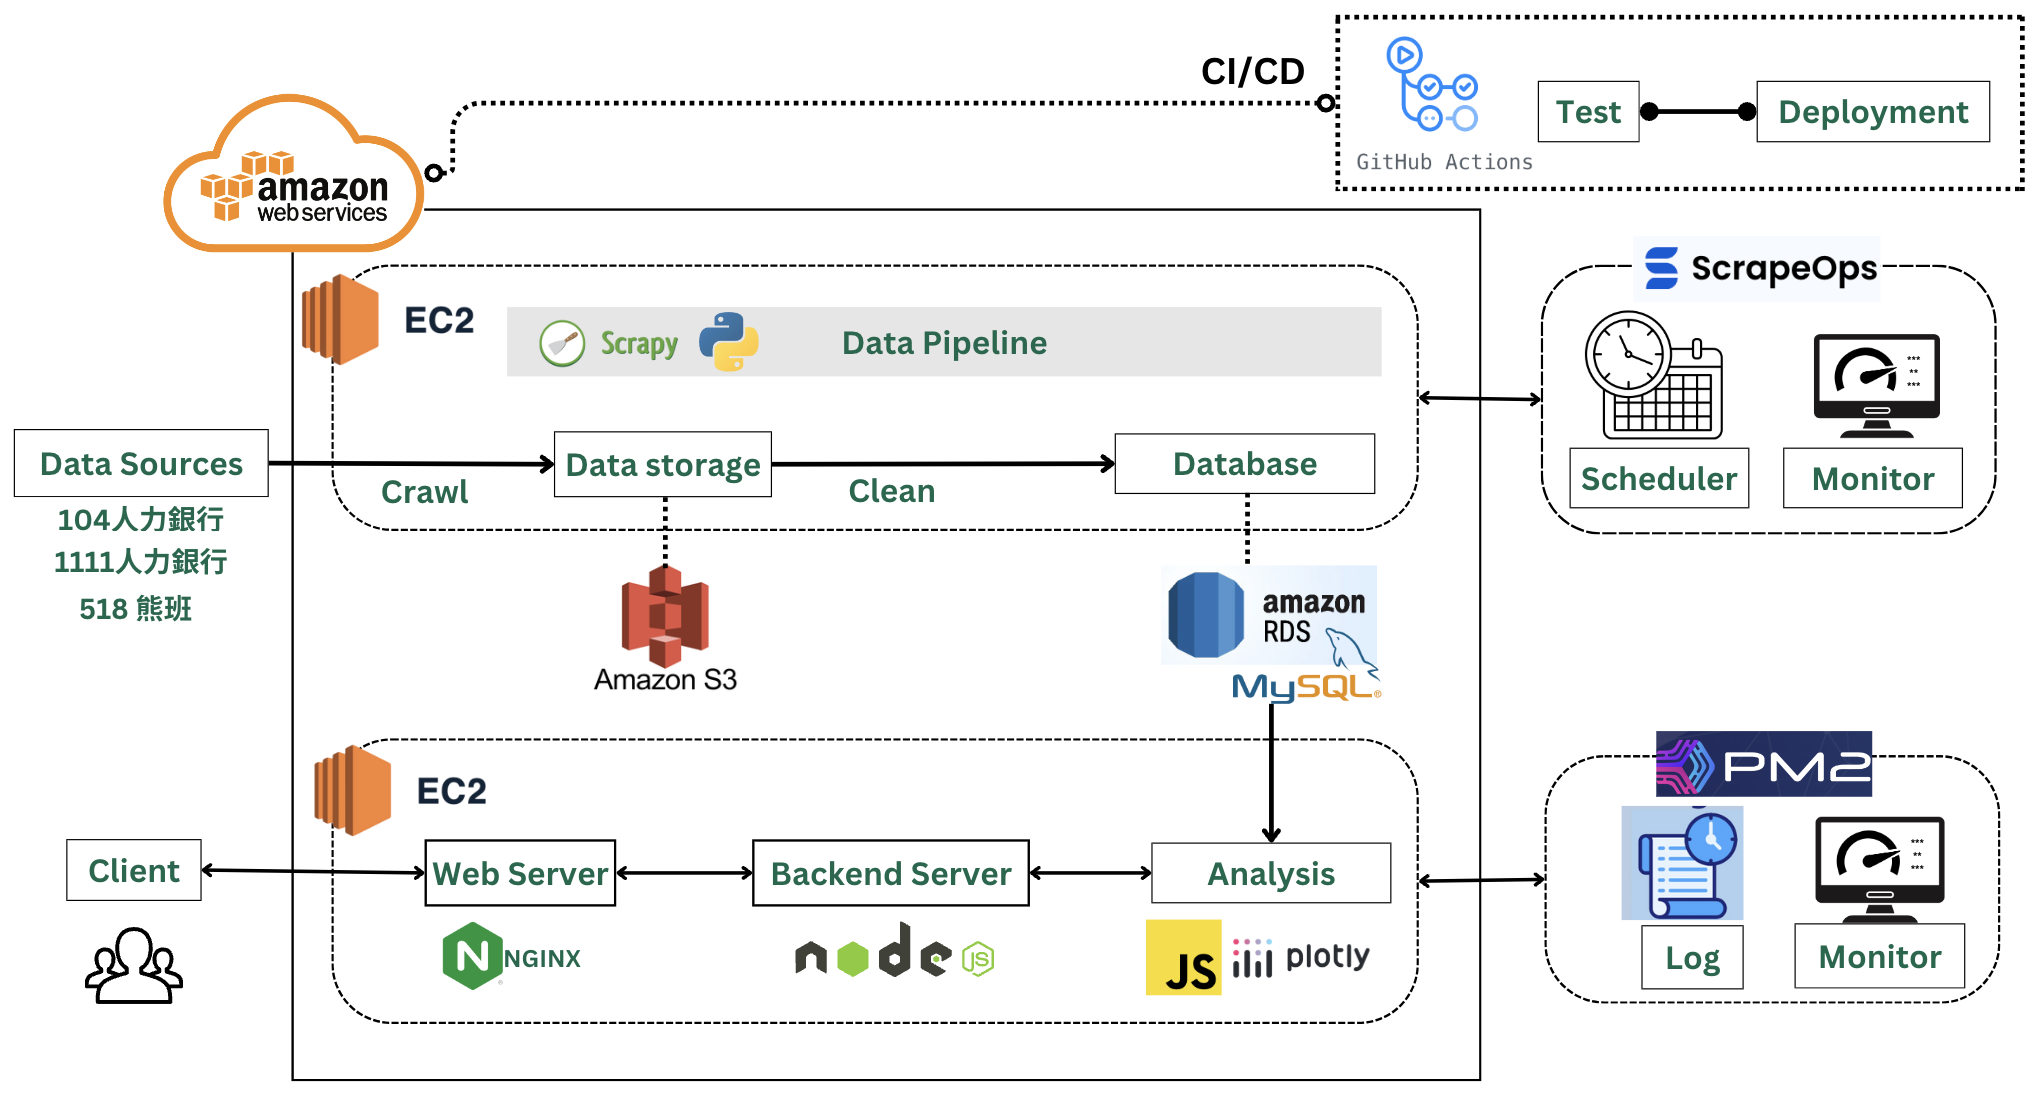
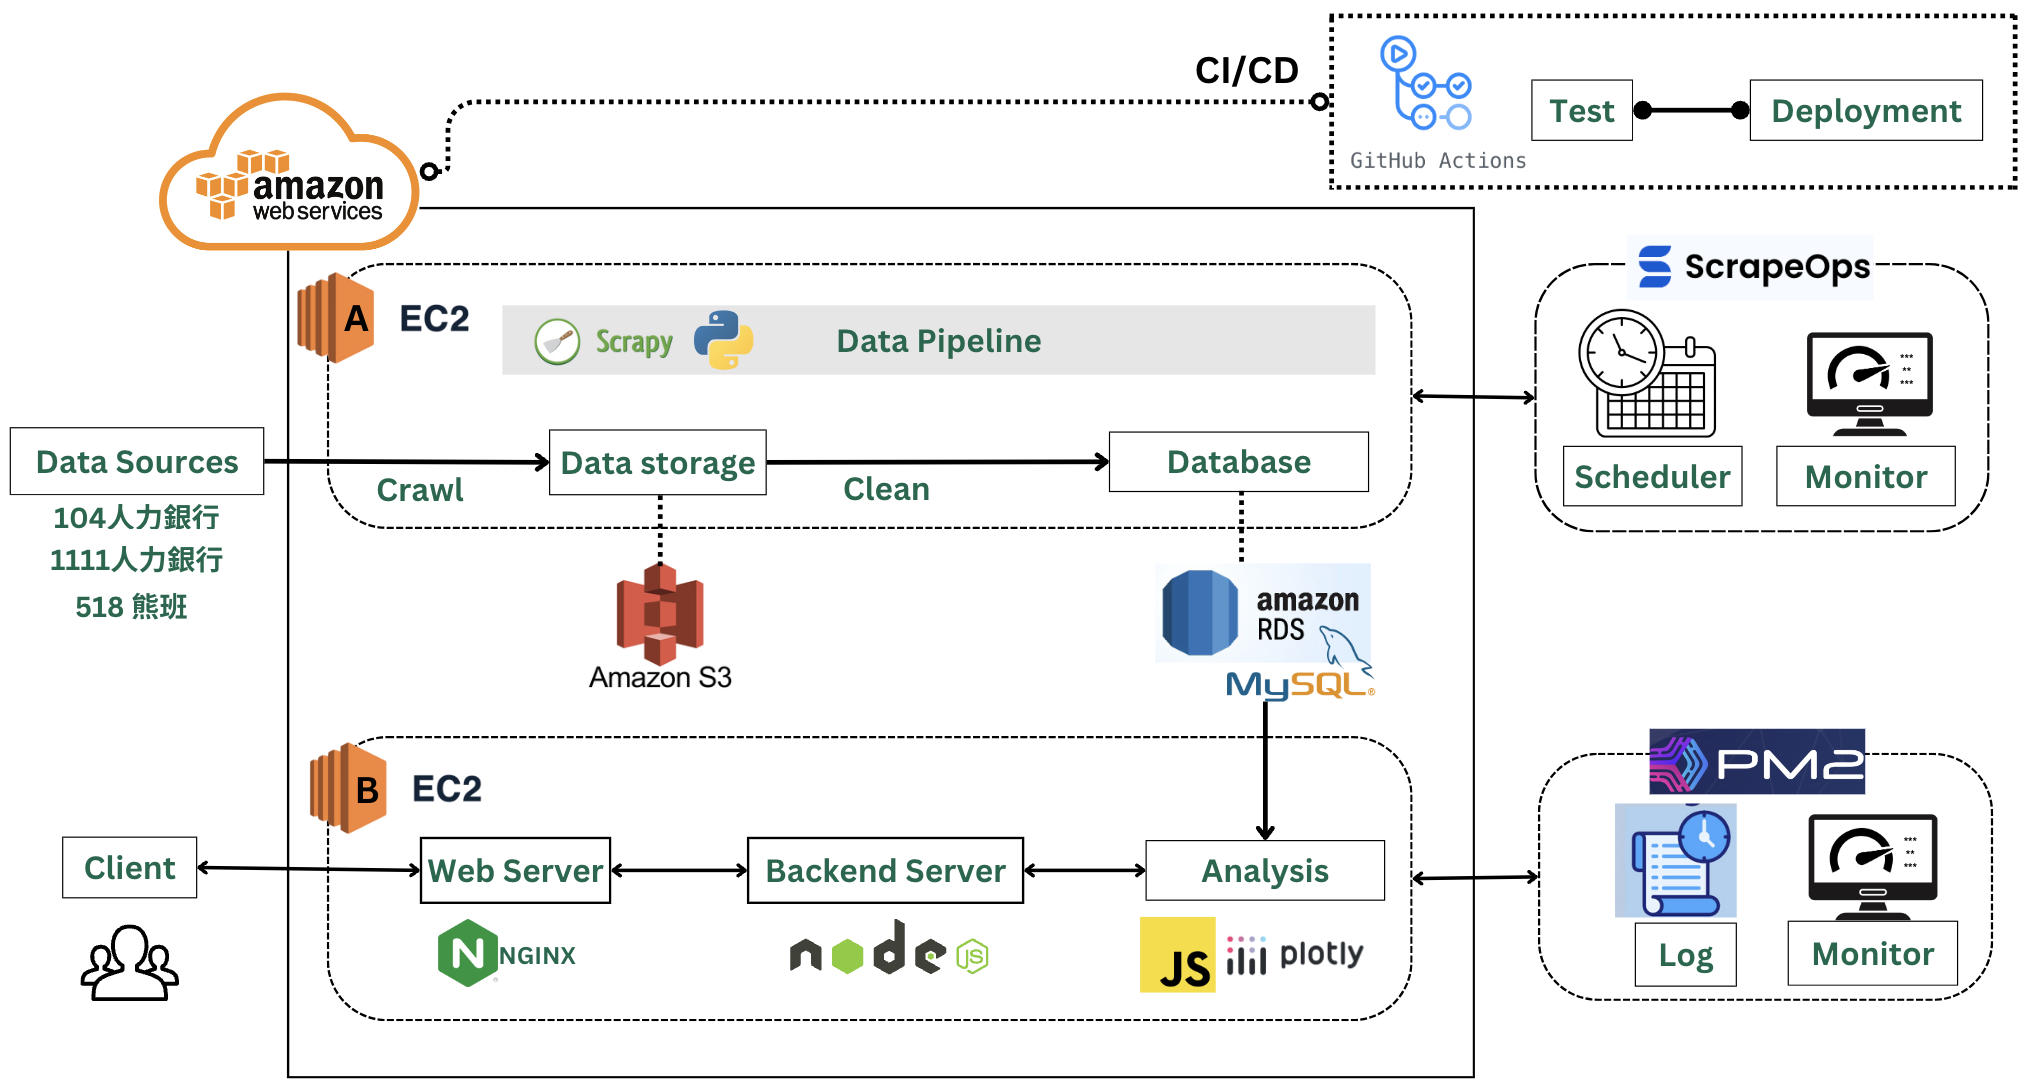
feat: modify architechture

diff --git a/README.md b/README.md
@@ -33,9 +33,9 @@ __Overall Architecture__
 ![Architecture](views/image/architecture.jpg)
 
 __Overview__
-- **Server A**: Configured as a Scrapy pipeline, it uses ETLT techniques to process data scraped from various websites. All the scraped data is stored in an Amazon S3 bucket during the initial transformation phase. After normalization, the data is finally saved into a MySQL database.
+- **EC2 A**: Configured as a Scrapy pipeline, it uses ETLT techniques to process data scraped from various websites. All the scraped data is stored in an Amazon S3 bucket during the initial transformation phase. After normalization, the data is finally saved into a MySQL database.
 
-- **Server B**: Designed to handle frontend website layout, it efficiently manages a high volume of client requests using a Node.js environment. The server is interconnected with the same database utilized by Server A, enabling it to access the database tables and retrieve the required data as responses to client requests.
+- **EC2 B**: Designed to handle frontend website layout, it efficiently manages a high volume of client requests using a Node.js environment. The server is interconnected with the same database utilized by Server A, enabling it to access the database tables and retrieve the required data as responses to client requests.
 
 - **Monitor**: Oversaw data pipeline and server to log errors. Ensured uninterrupted 100% data pipeline completion during scraping using ScrapeOps. Continuously checked frontend website status by PM2 and auto-sent email notifications if server appears any issues.
 
